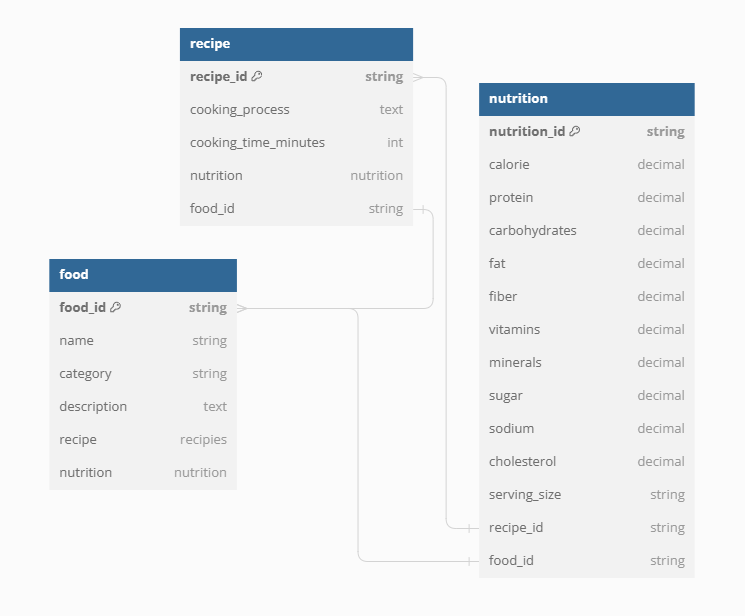
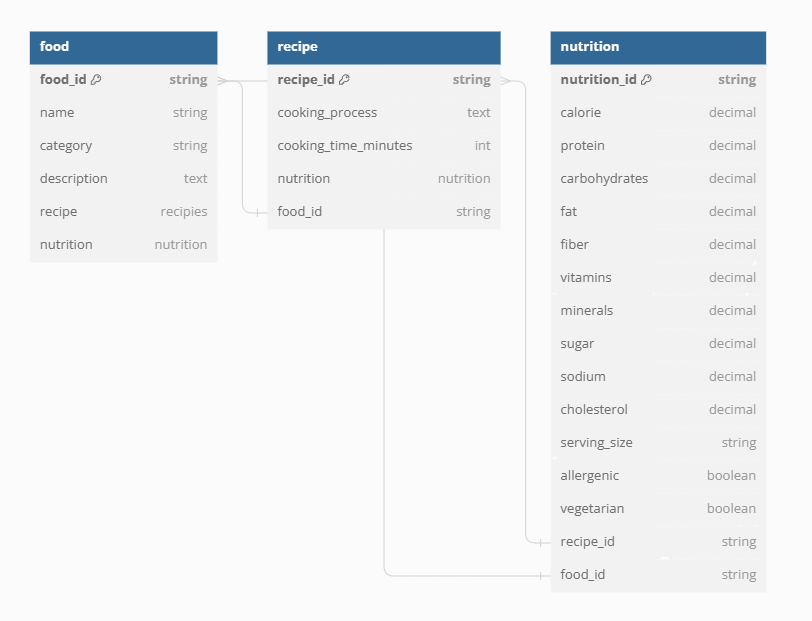
Mental Health service guidelines added

diff --git a/README.md b/README.md
@@ -27,9 +27,10 @@ The following sections describe the planned **database design**, relations betwe
     - Create or update user contact information.
     - Read user contact information by ID.
 
-- **/users/health-data**: Provide health data (🔴 Internal call to health service)
+  - **/users/health-data**: Provide health data (🔴 Internal call to health service) 
 
-<br><hr><hr>
+<br>*🔴 Add vegetarian info in the profile table*
+  <br><hr><hr>
 
 
 ## Nutrition service
@@ -53,3 +54,13 @@ The following sections describe the planned **database design**, relations betwe
 
 <br><hr><hr>
 
+## Mental Health service
+The following sections describe the planned **database design**, relations between different tables, **required API endpoints and inter-service dependencies**. Information provided here is not fixed. **Include more if needed**. If any API/service requires an internal call to a different service then use this icon 🔴 to mark it as important so that the developer assigned to that particular service can see high priority API easily.
+### Database relations
+![alt text](/Resources/DBDiagrams/MentalHealthService.png?raw=true)
+### Required APIS
+*API's that are mentioned in  the requirements list are marked bold.*
+- **/mental-health/exercises**: Create all 4 CRUD API's for mental health exercise.
+- **/mental-health/mood-tracking**:  Create all 4 CRUD API's for mood data. Use mood enum of at least 5 or more mood types.
+
+<br><hr><hr>
